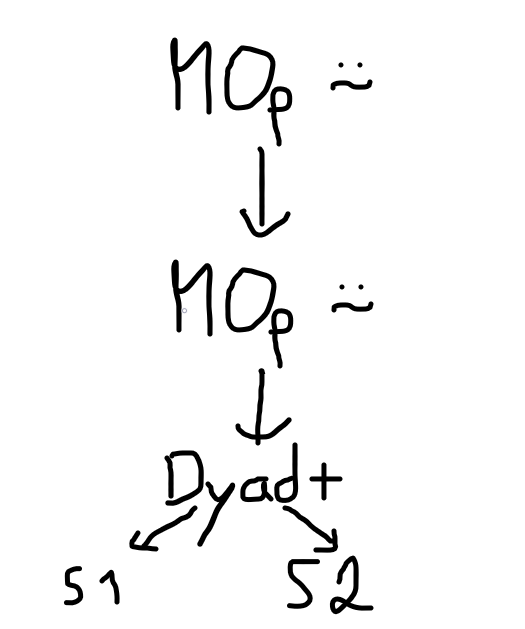
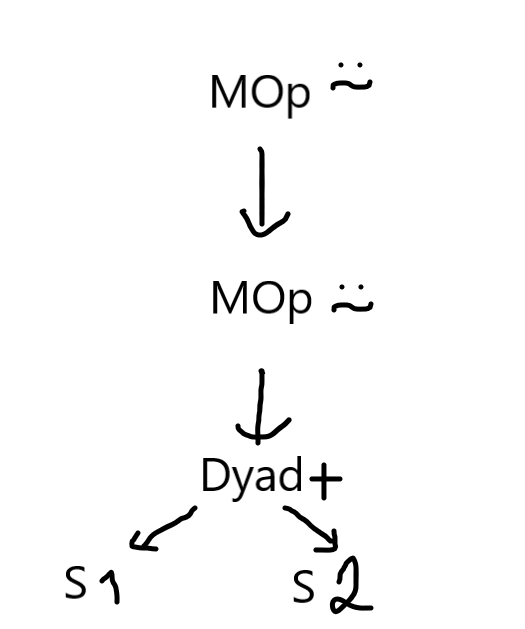
Incorporate revision feedback.

diff --git a/pages/02.blog/lsbasi-apl-part2/item.en.md b/pages/02.blog/lsbasi-apl-part2/item.en.md
@@ -41,13 +41,13 @@ To make my changes easier to understand, we will study the AST generated for the
 
 ![Sketch of the AST generated for the example expression.](./old_parser_dyadic_example.png)
 
-What I don't like about this AST is that I don't know if the operator `⍨` is acting in a monadic or dyadic function until I reach the bottom of the tree, where I have my function and my two arguments. If you type the same expression `1 +⍨⍨ 2` in [the parser for this post][repl-part2], the output printed is a list with the single element `Dyad(MOp(⍨ MOp(⍨ F(+))) S(1) S(2))` in it; this tree can be represented as:
+What I don't like about this AST is that I don't know if the operator `⍨` is acting on a monadic or dyadic function until I reach the bottom of the tree, where I have my function and my two arguments. If you type the same expression `1 +⍨⍨ 2` in [the parser for this post][repl-part2], the output printed is a list with the single element `Dyad(MOp(⍨ MOp(⍨ F(+))) S(1) S(2))` in it; this tree can be represented as:
 
 ![Sketch of the new AST generated for the example expression.](./new_parser_dyadic_example.png)
 
 With the new tree I have clearly separated the issue of finding the function I will apply from the arguments to which the function will be applied. I am also guessing this will make it easier to later implement things like [trains][apl-wiki-trains] and assigning functions to variables.
 
-I challenge you modify the AST nodes and the parser yourself to produce trees like these for dyadic function applications. Monadic function application undergoes a similar change, exemplified in the picture below for the expression `×⍨⍨ 6`:
+I challenge you to modify the AST nodes and the parser yourself to produce trees like these for dyadic function applications. Monadic function application undergoes a similar change, exemplified in the picture below for the expression `×⍨⍨ 6`:
 
 ![Comparison of old and new ASTs for a monadic function application.](./monadic_example.png)
 
@@ -188,8 +188,8 @@ For the sake of brevity we define the `AST.__repr__` method as `self.__str__` an
 
 From the updated grammar, both from the new functionalities and the changes I had to make because I changed my mind about the old grammar, we need to modify these `ASTNode` subclasses:
 
- - `Monad` - now represents a monadic function call instead of a function called monadically (c.f. the drawings above);
- - `Dyad` - now represents a dyadic function call instead of a function called dyadically (c.f. the drawings above).
+ - `Monad` - now represents a monadic function call instead of a function called monadically (cf. the drawings above);
+ - `Dyad` - now represents a dyadic function call instead of a function called dyadically (cf. the drawings above).
 
 and create these new subclasses:
 
@@ -570,7 +570,7 @@ class Interpreter(NodeVisitor):
     # ...
 ```
 
-_exceeeeeeept_ this is not _quite_ what we want. APL has something that are called [scalar functions][apl-wiki-scalar-functions]. You can think of these as functions that "automatically map" over arrays, so we can do things like
+_exceeeeeeept_ this is not _quite_ what we want. In APL, most functions are [scalar functions][apl-wiki-scalar-functions]. You can think of these as functions that "automatically map" over arrays, so we can do things like
 
 ```apl
     1 + 1 2 3
@@ -583,13 +583,13 @@ _exceeeeeeept_ this is not _quite_ what we want. APL has something that are call
 (2 3) 5 (7 8)
 ```
 
-so I also had to define two helper functions, `monadic_permeate` and `dyadic_permeate` that do this "automatic mapping" for us. I defined these as two decorators because that is effectively what they are, functions that receive functions and return modified versions of the input functions.
+so I also had to define two helper functions, `monadic_pervade` and `dyadic_pervade` that do this "automatic mapping" for us. I defined these as two decorators because that is effectively what they are, functions that receive functions and return modified versions of the input functions.
 
 What they effectively do is to recurse into the function arguments until there is nothing to do but to apply the actual function.
 
 ```py
-def monadic_permeate(func):
-    """Decorates a function to permeate into simple scalars."""
+def monadic_pervade(func):
+    """Decorates a function to pervade into simple scalars."""
 
     def decorated(omega):
         if isinstance(omega, list):
@@ -598,8 +598,8 @@ def monadic_permeate(func):
             return func(omega)
     return decorated
 
-def dyadic_permeate(func):
-    """Decorates a function to permeate through the left and right arguments."""
+def dyadic_pervade(func):
+    """Decorates a function to pervade through the left and right arguments."""
 
     def decorated(alpha, omega):
         if not isinstance(alpha, list) and not isinstance(omega, list):
@@ -622,21 +622,21 @@ class Interpreter(NodeVisitor):
     """APL interpreter using the visitor pattern."""
 
     monadic_functions = {
-        "+": monadic_permeate(lambda x: x),
-        "-": monadic_permeate(lambda x: -x),
-        "×": monadic_permeate(lambda x: 0 if not x else abs(x)//x),
-        "÷": monadic_permeate(lambda x: 1/x),
-        "⌈": monadic_permeate(ceil),
-        "⌊": monadic_permeate(floor),
+        "+": monadic_pervade(lambda x: x),
+        "-": monadic_pervade(lambda x: -x),
+        "×": monadic_pervade(lambda x: 0 if not x else abs(x)//x),
+        "÷": monadic_pervade(lambda x: 1/x),
+        "⌈": monadic_pervade(ceil),
+        "⌊": monadic_pervade(floor),
     }
 
     dyadic_functions = {
-        "+": dyadic_permeate(lambda a, w: a + w),
-        "-": dyadic_permeate(lambda a, w: a - w),
-        "×": dyadic_permeate(lambda a, w: a * w),
-        "÷": dyadic_permeate(lambda a, w: a / w),
-        "⌈": dyadic_permeate(max),
-        "⌊": dyadic_permeate(min),
+        "+": dyadic_pervade(lambda a, w: a + w),
+        "-": dyadic_pervade(lambda a, w: a - w),
+        "×": dyadic_pervade(lambda a, w: a * w),
+        "÷": dyadic_pervade(lambda a, w: a / w),
+        "⌈": dyadic_pervade(max),
+        "⌊": dyadic_pervade(min),
     }
 
     # ...
@@ -771,8 +771,10 @@ I also want you to have a look at [Ruslan's 7th post][ruslan-7] and check out hi
 
 In future posts here are some of the things that will be covered:
 
- - implementing many more primitives;
- - implement strand assignment (i.e. what allows you to do things like `a b ← 1 2`);
+ - implementing many more primitive functions;
+ - implement more monadic operators;
+ - finally introduce dyadic operators;
+ - implement strand assignment (i.e. what allows you to do things like `(a b) ← 1 2`);
  - implement modified assignment;
  - make sure our list representation of arrays is compatible with APL's array model;
  - allow for the definition of trains and assignment of those.
